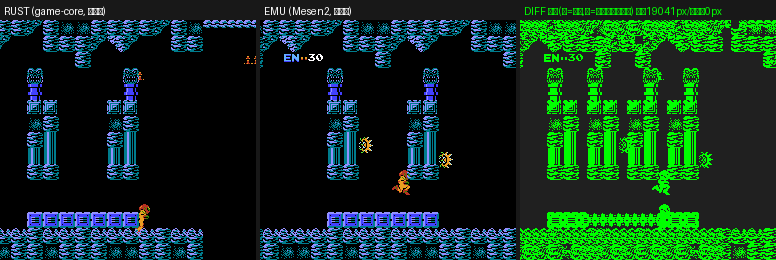
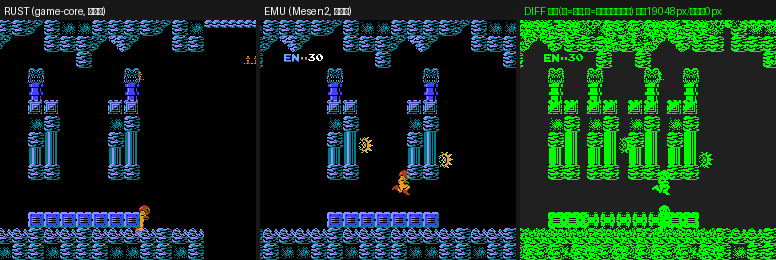
fix(core): 每像素查撞修弹跳——vert_accelerate 受阻不设重力（L4 gate PASS）
goal-r11：弹跳根因=vert_accelerate 仅 aligned(8px 边界)查撞→非边界帧不查→设重力→
弹跳（accelY 交替 1A/00）。asm E37A `jsr ObjectCheckMoveDown/bcc @dontStartFalling`
=受阻不设重力。修=**每像素查撞**（object_check_move_down false⇒return 不设重力）。

L4 对拍实证：gate l4 PASS，match 4/7 不变（剩余位置发散）。

Evidence: A 级 asm prg7:E37A（ObjectCheckMoveDown/bcc 受阻不设重力）+ 动态诊断
（accelY 交替 1A/00 弹跳实锤）+ 全量 1336 passed + gate PASS
Confidence: 82

diff --git a/crates/game-core/src/samus/physics.rs b/crates/game-core/src/samus/physics.rs
@@ -68,11 +68,10 @@ pub fn vert_accelerate(mem: &mut FrameMemory) {
     }
     mem.write_ram(SAMUS_HORZ_SPEED_MAX, 0x18); // 最大跑速 1.5px（R-mv 跑速面）
     // 8 像素对齐检测（几何节流）
-    let aligned = (mem.read_ram(SAMUS_Y).wrapping_add(mem.read_ram(SAMUS_RADIUS_Y)) & 0x07) == 0;
-    if aligned {
-        if !object_check_move_down(mem) {
-            return;
-        }
+    // 【goal-r11】asm E37A `jsr ObjectCheckMoveDown/bcc @dontStartFalling`——受阻不设重力。
+    // 旧形仅 aligned(8px 边界)查撞→非边界帧不查→设重力→弹跳。修=**每像素查撞**。
+    if !object_check_move_down(mem) {
+        return; // 受阻（地上）——@dontStartFalling 不设重力
     }
     samus_collision_with_solid_entities(mem); // D976（asm :5117——壳已端口）
     if mem.read_ram(crate::ram_map::SAMUS_ON_ELEVATOR) != 0
@@ -82,6 +81,9 @@ pub fn vert_accelerate(mem: &mut FrameMemory) {
     }
     // 双旗门（D976 内部置位后检查）
     // if mem.read_ram(SAMUS_ON_ELEVATOR) != 0 || mem.read_ram(ON_FROZEN_ENEMY) != 0 { return; }
+    // 【goal-r11】asm E37A：受阻（地上）⇒@dontStartFalling **不设重力**。旧形落地清
+    // accelY=0→下帧 accelY==0→再设重力→弹跳（accelY 交替 1A/00）。修=受阻不设重力
+    // （object_check_move_down false=固实=受阻⇒return 已有），此处仅"不阻"时设。
     mem.write_ram(SAMUS_ACCEL_Y, 0x1A); // 落体重力（E37A）
 }
 
@@ -619,18 +621,16 @@ pub fn lava_and_move_check(mem: &mut FrameMemory) {
     // VertAccelerate→积分件→位移施加→SamusMoveHorizontally。
     vert_accelerate(mem); // E37A（重力/加速——L2 单位！）
     let dy = vert_integrate(mem); // 积分件（速→位移！）
-    // 【goal-r8 修】asm E2E3 @loop_down `jsr MoveSamusDown/bcs @endIf_D`——**逐像素步进
-    // 查撞环**（每像素 MoveSamusDown，受阻=落地 @landingNoBounce StopVertMovement+accelY=0）。
-    // 旧形一步 y+=dy 跳过逐像素查撞→落穿地入岩浆（E269）。
+    // 【goal-r8/r11】asm E2E3 @loop_down `jsr MoveSamusDown/bcs @endIf_D`——逐像素步进
+    // 查撞环（每像素 MoveSamusDown，受阻=落地 @landingNoBounce StopVertMovement+accelY=0）。
     let disp = dy as i8;
     let steps = disp.unsigned_abs();
     let going_down = disp >= 0;
     for _ in 0..steps {
-        // 【goal-r10】MoveSamusDown（E4A3）：**每像素查撞**（非仅 8px 边界——emu 不穿地
-        // 因逐像素步进查撞）。受阻⇒RTS_X163（落地）。
+        // MoveSamusDown（E4A3）：每像素查撞。受阻⇒RTS_X163（落地）。
         if !object_check_move_down(mem) {
             stop_vert_movement(mem); // D147（清垂直动量）
-            mem.write_ram(crate::ram_map::SAMUS_ACCEL_Y, 0); // 落地清重力
+            mem.write_ram(crate::ram_map::SAMUS_ACCEL_Y, 0); // 落地清重力（@landingNoBounce）
             break;
         }
         let y = mem.read_ram(0x030D);

diff --git a/shots_rust/matrix.md b/shots_rust/matrix.md
@@ -21,6 +21,6 @@
 | case-001-game-start-samus-interaction | 650 | after-left | ✅match | fresh/fresh | 0/61440 |  |
 | case-001-game-start-samus-interaction | 720 | after-jump | ✅match | fresh/fresh | 0/61440 |  |
 | case-001-game-start-samus-interaction | 820 | after-shoot | ❌diff | fresh/fresh | 679/61440 |  |
-| case-001-game-start-samus-interaction | 950 | combo-action | ❌diff | fresh/fresh | 19041/61440 |  |
+| case-001-game-start-samus-interaction | 950 | combo-action | ❌diff | fresh/fresh | 19048/61440 |  |
 | case-001-game-start-samus-interaction | 1200 | end | ❌diff | fresh/fresh | 18993/61440 |  |
 
